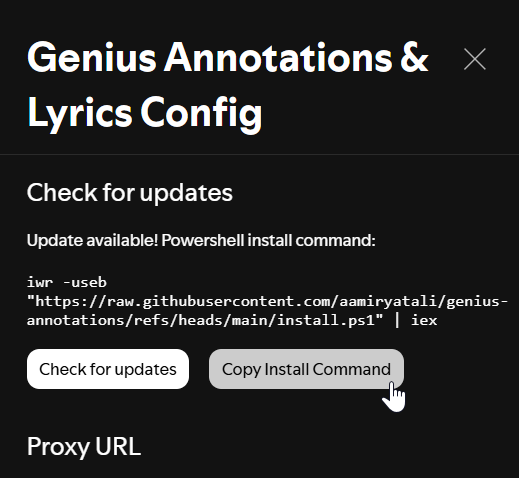
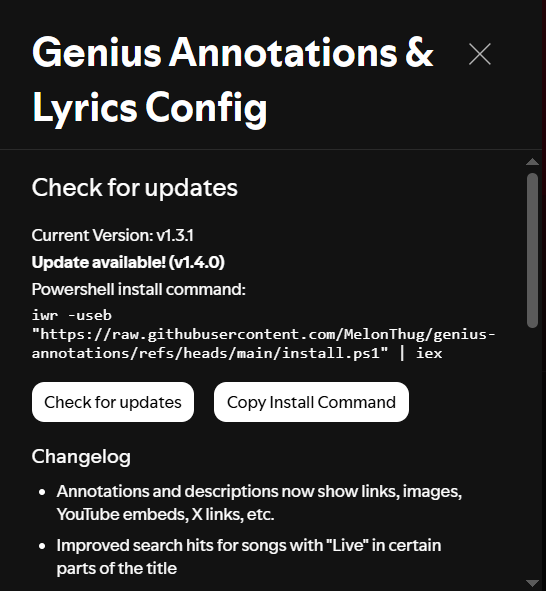
docs: Update readme, configPreview image

diff --git a/README.md b/README.md
@@ -4,8 +4,7 @@ Includes a list of available translations, as well as the link to the song page 
 Requires [Spicetify](https://spicetify.app/) installed to use.
 
 ## Main features:
-- Song lyrics
-- Song descriptions
+- Song descriptions & lyrics
 - Annotations on lyrics
 - Lyric translations
 - 1 command install
@@ -36,8 +35,9 @@ Done.
 Use the app by clicking its icon on the top left of Spotify (circled red in this image)  
 <img src="resources/iconLocation.png"/>  
 
-Available translations can be selected from the dropdown at the top of the lyrics page.
-Lyrics with annotations will be highlighted green. Click them to see the annotation.  
+Available translations can be selected from the dropdown at the top of the lyrics page.  
+Lyrics with annotations will be highlighted green.  
+Click them to see the annotation.  
 
 ## Previews
 <img src="resources/previewGif.gif" width="500" height="500"/>  
@@ -47,7 +47,8 @@ Lyrics with annotations will be highlighted green. Click them to see the annotat
 <img src="resources/annotationPreview.png" width="500" height="500" />  
 
 ## Updating
+The app will automatically check for updates on launch, and display "Update Available" next to its name in the menu shown below.  
 Copy and run the powershell command from the app's config panel.  
-The app will automatically check for updates on launch.  
+A changelog is also included.  
 <img src="resources/configLocation.png" width="500"/>  
-<img src="resources/configPreview.png" width="500" height="500">
+<img src="resources/configPreview.png" width="500" height="500">  
